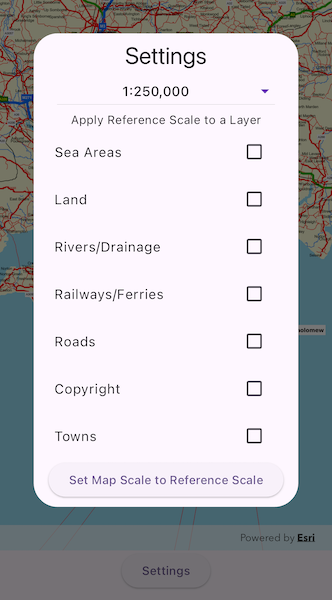
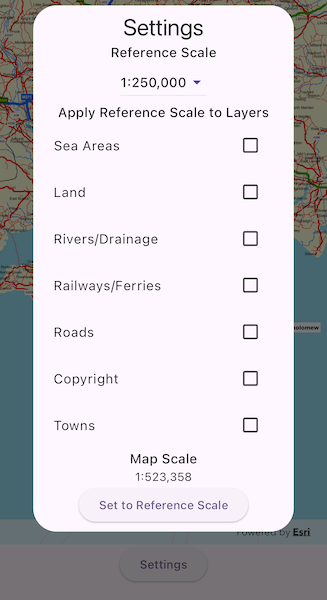
Updated the functionality

diff --git a/lib/samples/set_reference_scale/set_reference_scale_sample.dart b/lib/samples/set_reference_scale/set_reference_scale_sample.dart
@@ -42,6 +42,8 @@ class _SetReferenceScaleState extends State<SetReferenceScaleSample>
   var _scale = 250000.0;
   // Create a flag for when the map view is ready and controls can be used.
   var _ready = false;
+  // Create a regular expression to format the scale.
+  final reg = RegExp(r'(\d{1,3})(?=(\d{3})+(?!\d))');
 
   @override
   void initState() {
@@ -136,10 +138,13 @@ class _SetReferenceScaleState extends State<SetReferenceScaleSample>
                   child: Text('Settings',
                       style: Theme.of(context).textTheme.headlineMedium),
                 ),
+                Center(
+                  child: Text('Reference Scale',
+                      style: Theme.of(context).textTheme.titleMedium),
+                ),
                 // Add a dropdown button for setting a new reference scale.
                 DropdownButton(
                   alignment: Alignment.center,
-                  hint: const Text('Select a New Reference Scale'),
                   // Set the selected scale
                   value: _scale,
                   icon: const Icon(
@@ -148,13 +153,16 @@ class _SetReferenceScaleState extends State<SetReferenceScaleSample>
                   ),
                   // Set the onChanged callback to update the selected scale.
                   onChanged: (newScale) {
-                    setState(() => _scale = newScale!);
+                    setNewState(() {
+                      _scale = newScale!;
+                      _map.referenceScale = _scale;
+                    });
                   },
                   items: _referenceScaleList,
                 ),
-                const Text(
-                  'Apply Reference Scale to a Layer',
-                ),
+                Text('Apply Reference Scale to Layers',
+                    style: Theme.of(context).textTheme.titleMedium),
+
                 // Add a list of checkboxes for selecting feature layers that will honor the reference scale.
                 Column(
                   children: [
@@ -165,24 +173,45 @@ class _SetReferenceScaleState extends State<SetReferenceScaleSample>
                         onChanged: (value) {
                           // Update the selected feature layers.
                           setNewState(() {
+                            // Update the selected feature layers list.
                             if (value ?? false) {
                               _selectedFeatureLayers.add(layer);
                             } else {
                               _selectedFeatureLayers.remove(layer);
                             }
                           });
+
+                          // Get the matching layer from the map.
+                          var matchingLayer = _map.operationalLayers
+                              .where((element) => element.name == layer)
+                              .first as FeatureLayer;
+
+                          // Set the scaleSymbols property based on the checkbox value.
+                          _selectedFeatureLayers.contains(matchingLayer.name)
+                              ? matchingLayer.scaleSymbols = true
+                              : matchingLayer.scaleSymbols = false;
                         },
+                        // Set the title of the checkbox to the layer name.
                         title: Text(layer),
                       ),
                   ],
                 ),
-                // Add a button to set the map scale to the reference scale and update the layers.
+                // Add text to display the current map scale.
+                Center(
+                  child: Text('Map Scale',
+                      style: Theme.of(context).textTheme.titleMedium),
+                ),
+                Text(
+                  '1:${_mapViewController.scale.toInt().toString().replaceAllMapped(reg, mathFunc)}',
+                ),
                 ElevatedButton(
                   onPressed: () {
-                    setScaleAndLayers();
+                    // Set the map scale to the reference scale and close the Settings dialog.
+                    _mapViewController.setViewpointScale(
+                        scale: _map.referenceScale);
                     Navigator.pop(context);
                   },
-                  child: const Text('Set Map Scale to Reference Scale'),
+                  child: const Text('Set to Reference Scale'),
                 ),
               ],
             ),
@@ -192,15 +221,6 @@ class _SetReferenceScaleState extends State<SetReferenceScaleSample>
     });
   }
 
-  void setScaleAndLayers() {
-    // Set the map scale to the reference scale.
-    _map.referenceScale = _scale;
-    // Update the layers to honor the reference scale.
-    for (final layer in _selectedFeatureLayers) {
-      var matchingLayer = _map.operationalLayers
-          .where((element) => element.name == layer)
-          .first as FeatureLayer;
-      matchingLayer.scaleSymbols = true;
-    }
-  }
+  // Create a function to format the scale.
+  String Function(Match) mathFunc = (Match match) => '${match[1]},';
 }
